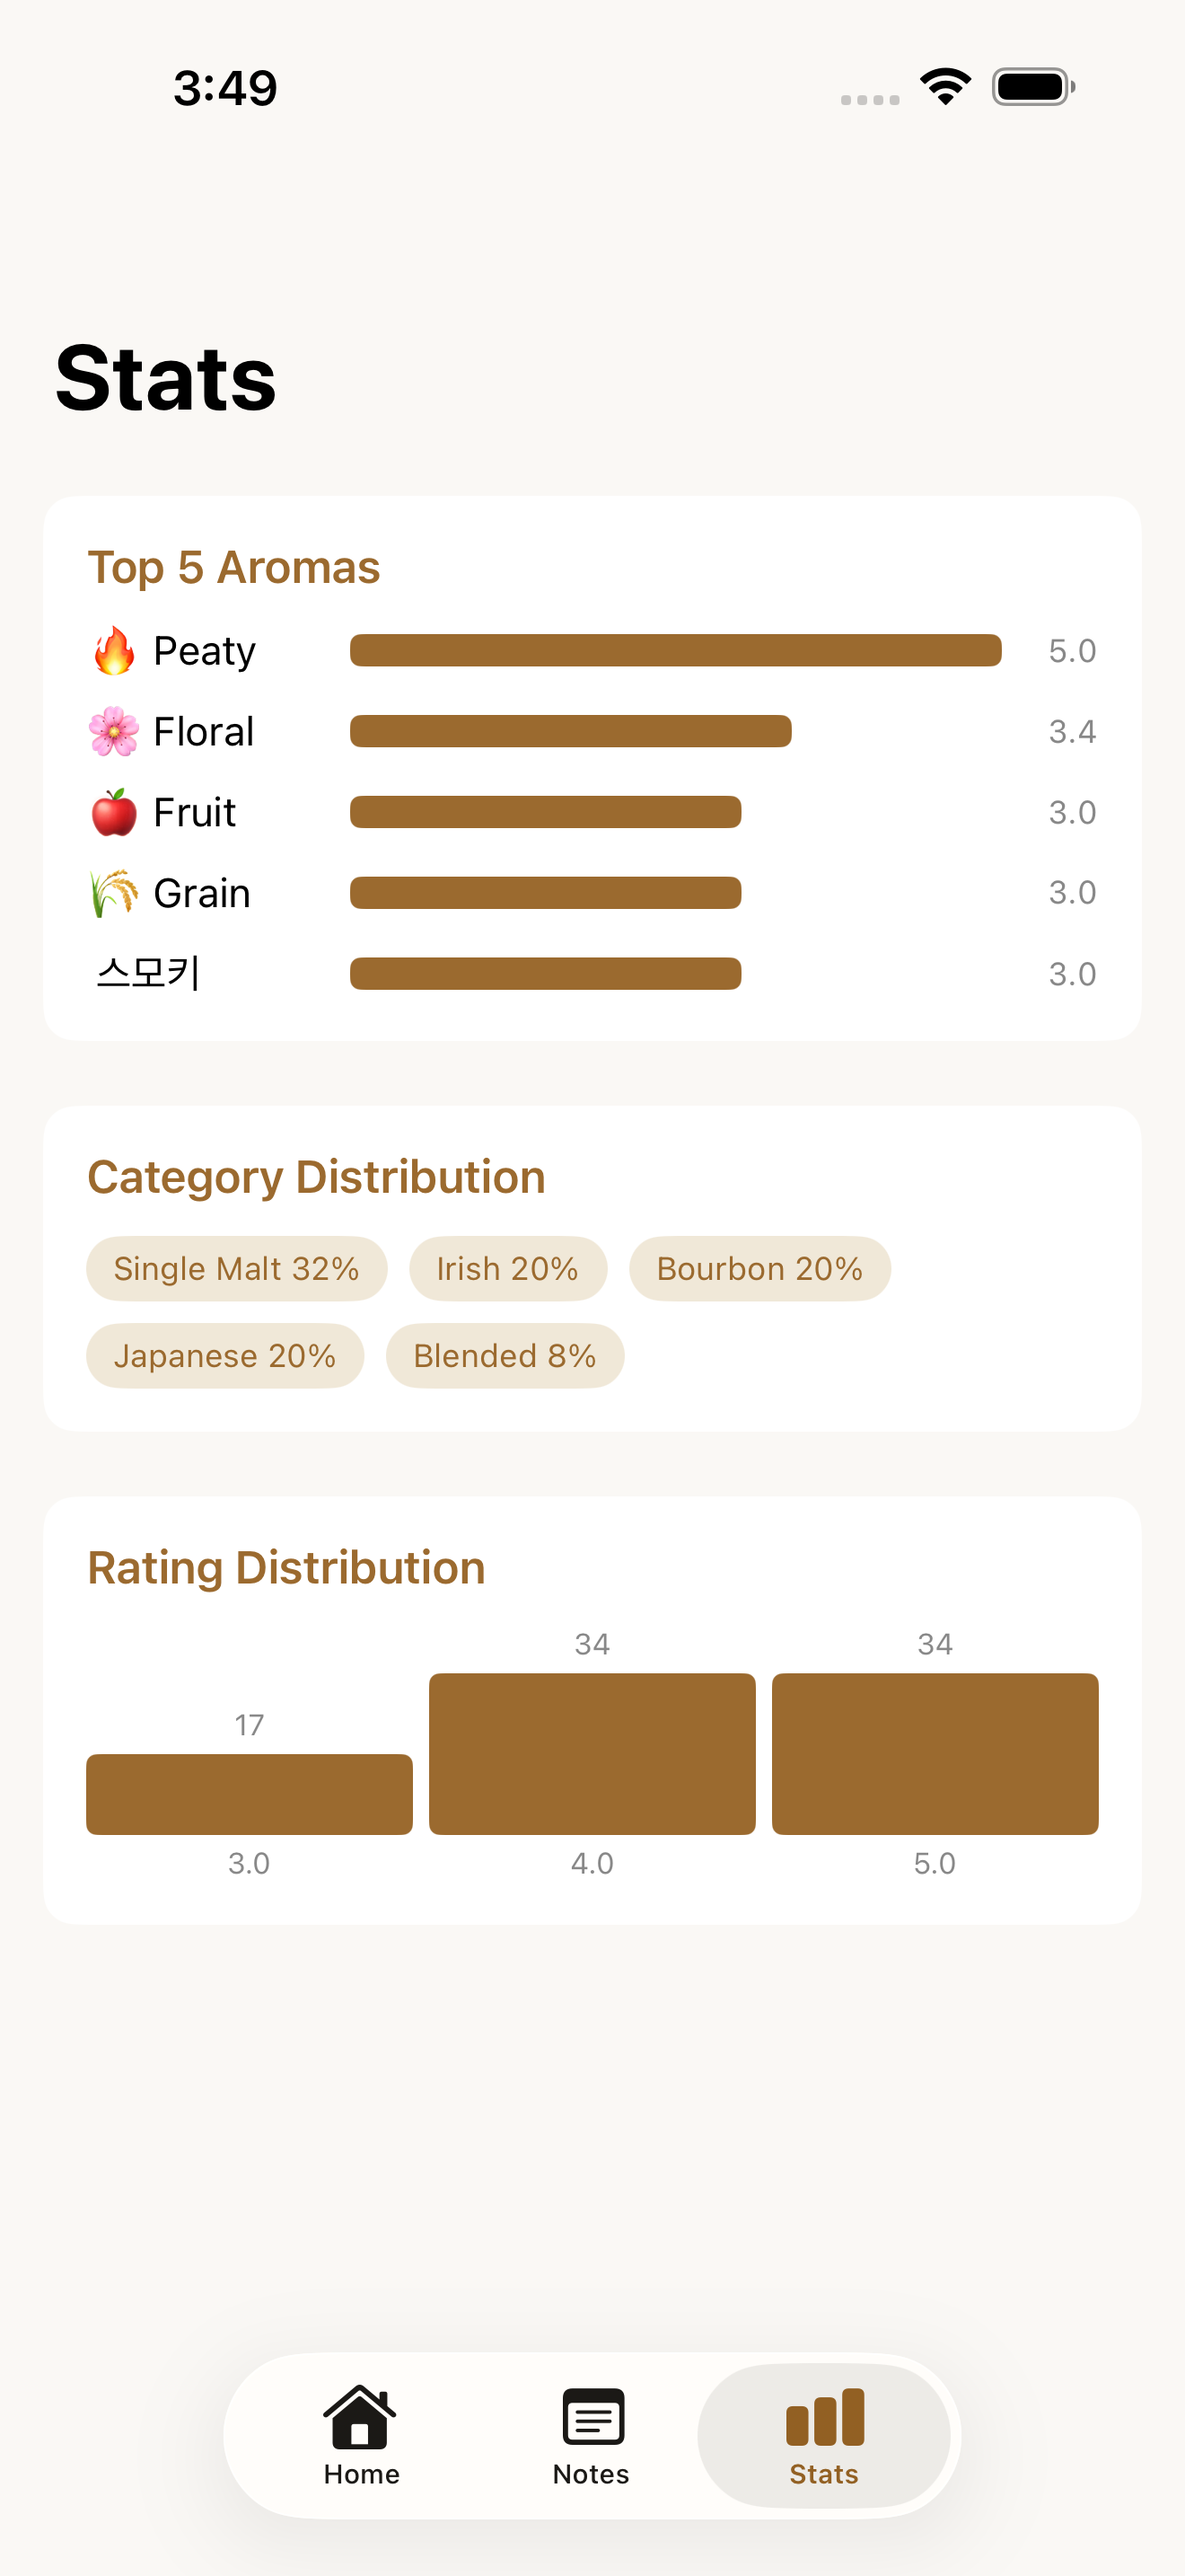
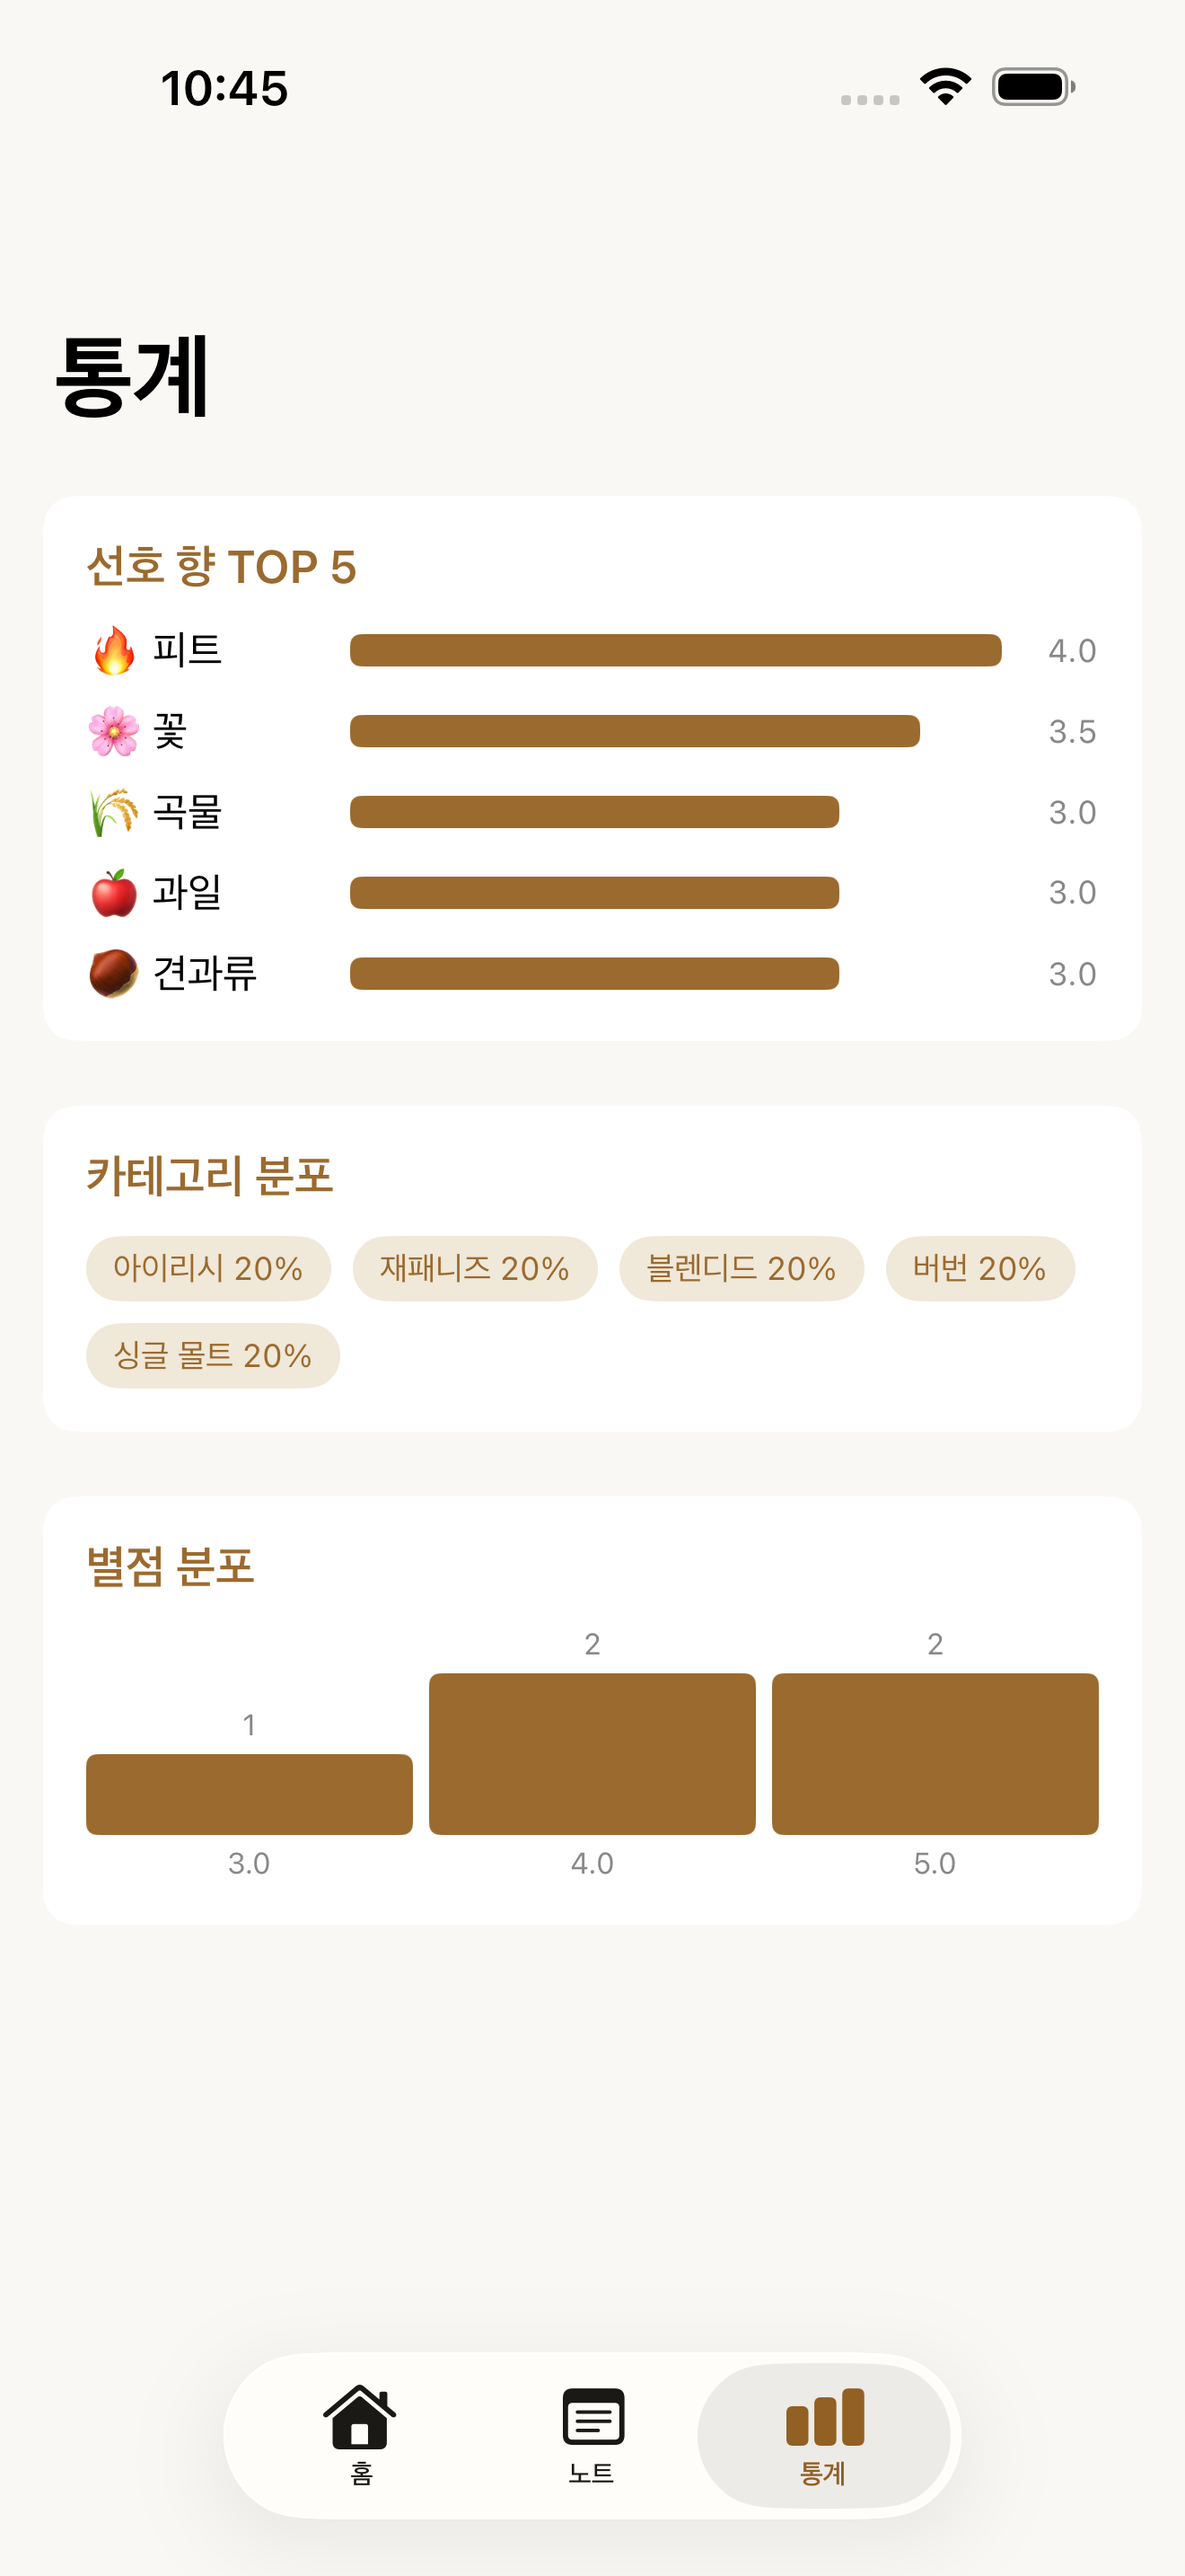
fix: 시뮬레이터 언어 설정 방식으로 전환 + 데이터 초기화 + 스모키 수정
## 근본 원인 수정
- SnapshotHelper -AppleLanguages 주입 방식 → xcrun simctl spawn defaults write 방식으로 전환
  (시뮬레이터 실제 언어 설정을 변경해야 Locale.current / String(localized:) 등 모두 신뢰성 보장)
- 매 언어 촬영 전 xcrun simctl uninstall로 앱 데이터(SwiftData) 완전 초기화
  (데이터 누적으로 양쪽 버전이 같은 데이터를 보이던 문제 해결)

## ScreenshotSeedData
- Johnnie Walker Black 아로마 "스모키" → "피트" 교체
  (FlavorConstants에 없어서 NSLocalizedString이 한글 키를 그대로 반환하던 문제 해결)

## screenshots.sh 변경
- xcrun simctl spawn UDID defaults write NSGlobalDomain AppleLanguages -array
- xcrun simctl uninstall UDID BUNDLE_ID (언어별 실행 전)
- -testLanguage/-testRegion 플래그 제거 (시뮬레이터 언어 설정으로 대체)

- screenshots: ko/en 14장 재촬영

diff --git a/whiskey note/Screenshot/ScreenshotSeedData.swift b/whiskey note/Screenshot/ScreenshotSeedData.swift
@@ -44,7 +44,7 @@ enum ScreenshotSeedData {
             memoEn: "Smoky and fruity, well-balanced and widely approachable",
             dishKo: "그릴 스테이크, 고다 치즈",
             dishEn: "Grilled steak, Gouda cheese",
-            aromas: [("스모키", 3), ("과일", 4), ("스파이시", 2)],
+            aromas: [("피트", 3), ("과일", 4), ("스파이시", 2)],
             tastes: [("단맛", 3), ("쓴맛", 2)],
             mouthfeels: [("중간", 4), ("드라이", 2)],
             finishes: [("중간", 3), ("따뜻한", 3)],
